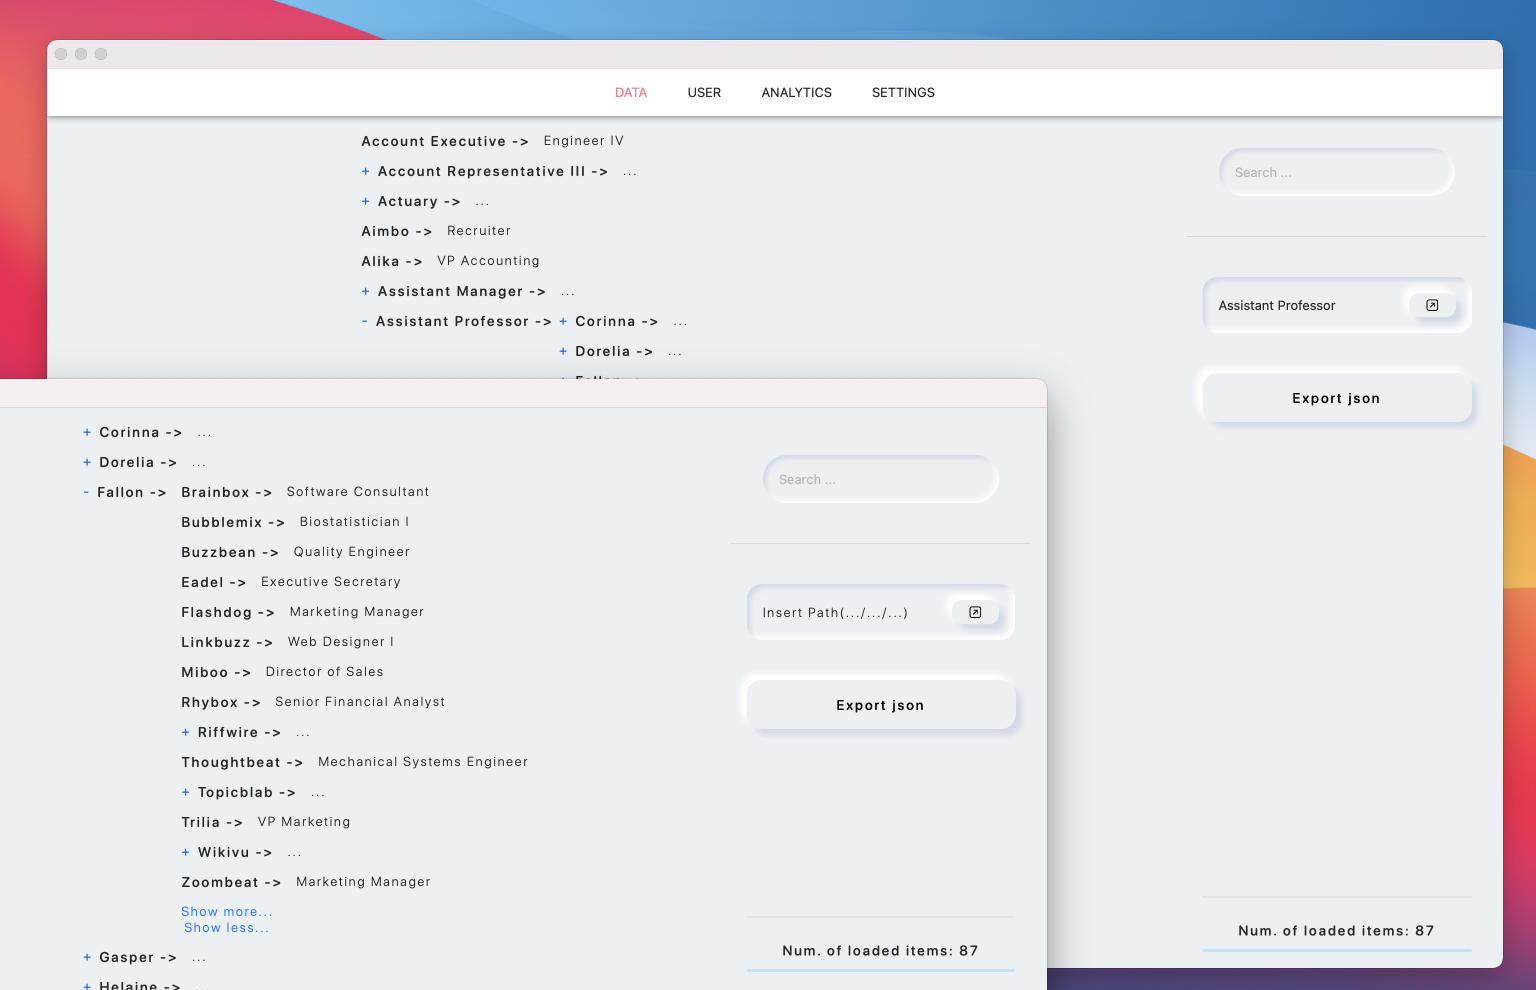
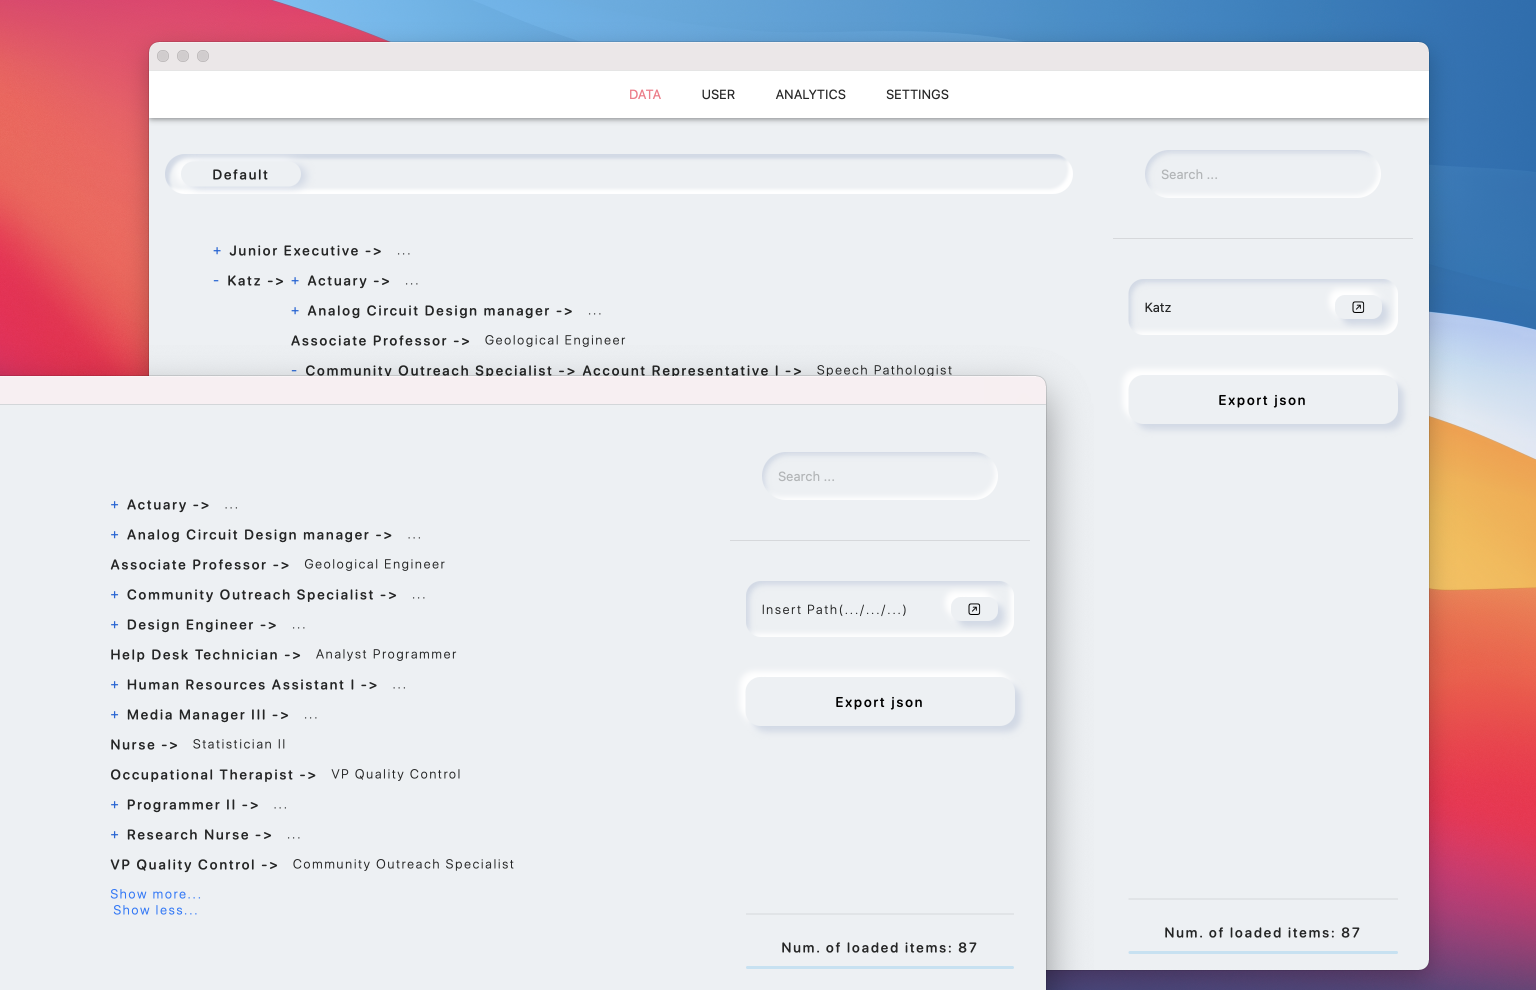
image and doc updates

diff --git a/Framework/readme_swift.md b/Framework/readme_swift.md
@@ -52,12 +52,13 @@ Select:
 ```
 
 #### Data
+1st element of "childs" parameter refers to memory block you want use. If "childs" parameter is omitted the selected operation will be executed on "Default" memory.
 ```
   dbClientConnector.dataU.addNode(childs: [String], data: [String: AnyObject], callback: (_ response: Response)->Void)->String
 
   dbClientConnector.dataU.delNode(childs: [String], callback: (_ response: Response)->Void)->String
 
-  dbClientConnector.dataU.delRoot(callback: (_ response: Response)->Void)->String
+  dbClientConnector.dataU.delRoot(rootName: [String], callback: (_ response: Response)->Void)->String
 
   dbClientConnector.dataU.getNode(childs: [String], callback: (_ response: Response)->Void)->String
 ```

diff --git a/Framework/readme_java.md b/Framework/readme_java.md
@@ -35,12 +35,13 @@ Create a Connector which will let you to communicate with the Server.
 ```
 
 #### Data
+1st element of "childs" parameter refers to memory block you want use. If "childs" parameter is omitted the selected operation will be executed on "Default" memory.
 ```
   connector.dataU.addNode(String[] childs, Map<String, Object> data, RequestCallback callback);
 
   connector.dataU.delNode(List<String> childs, RequestCallback callback);
 
-  connector.dataU.delRoot(RequestCallback callback);
+  connector.dataU.delRoot(String memRoot, RequestCallback callback);
 
   connector.dataU.getNode(String[] childs, RequestCallback callback);
 ```
